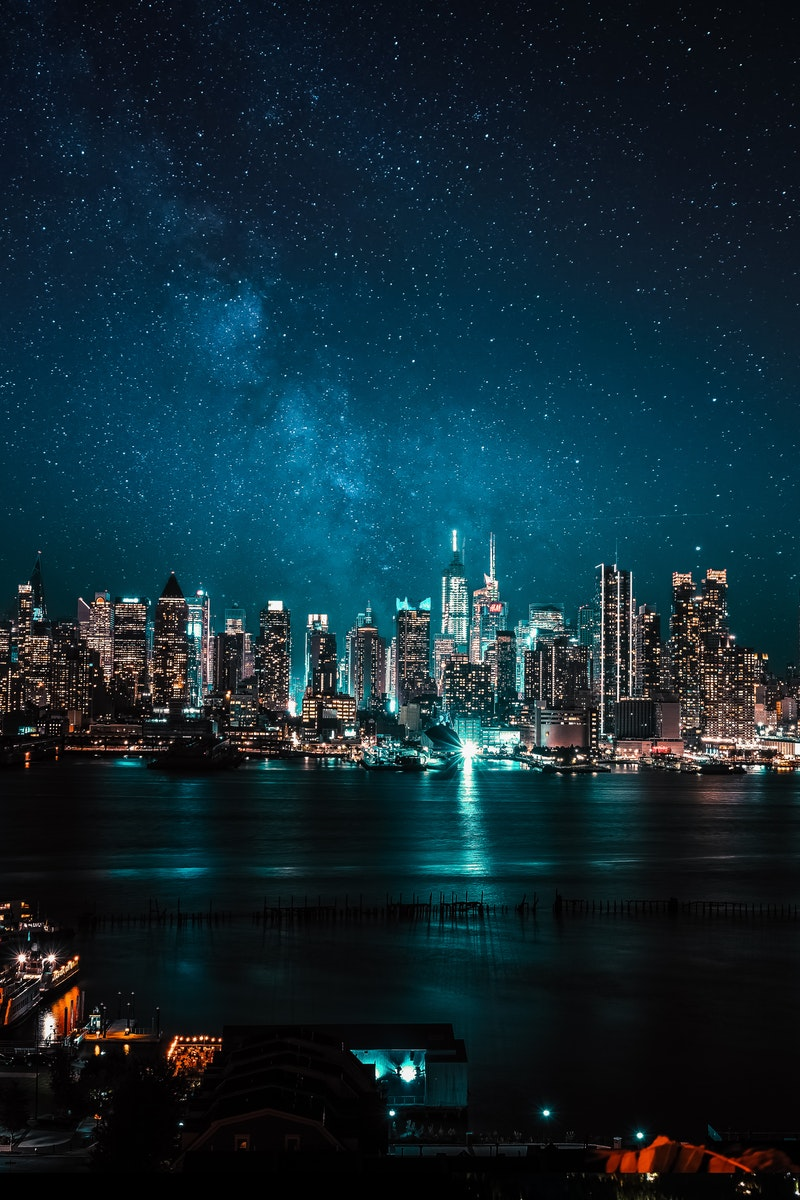
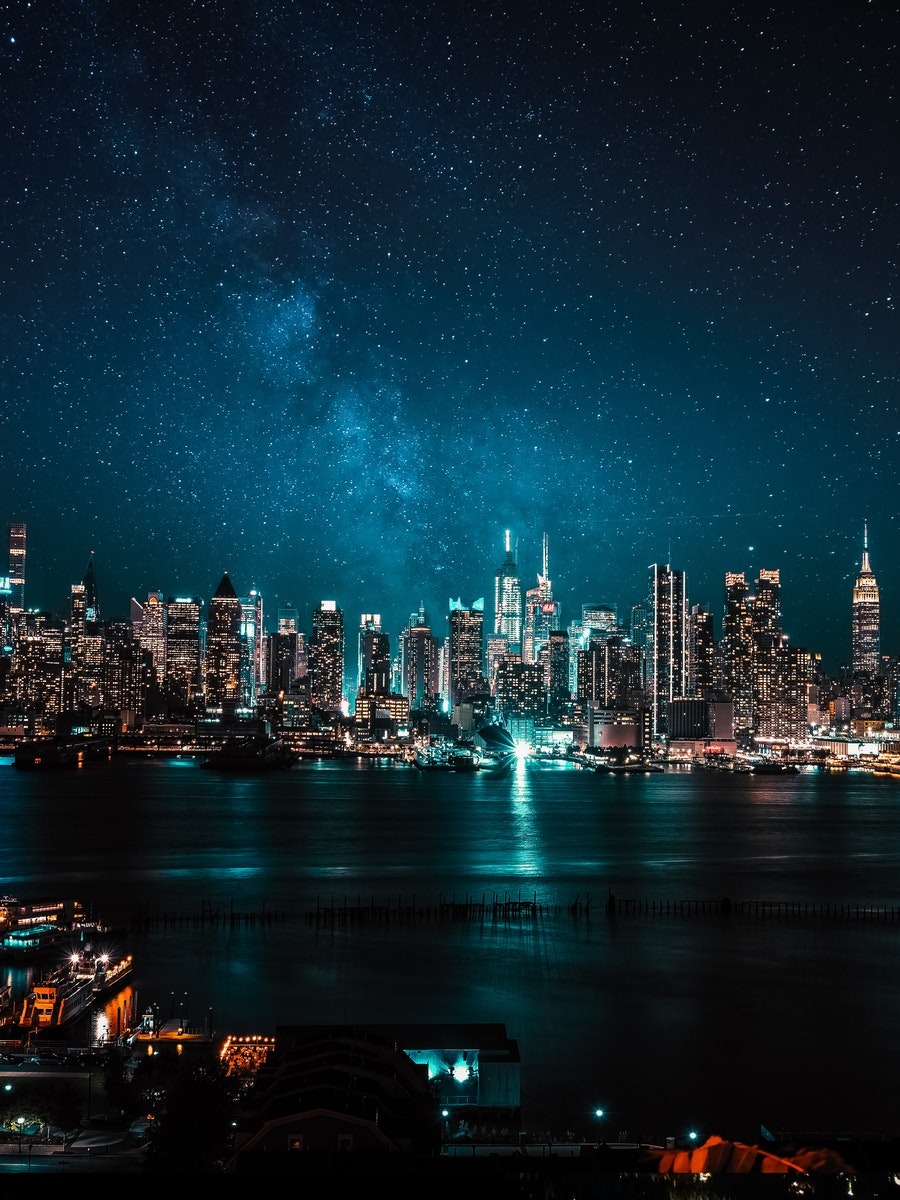
styling and warnings
styling part 4
added a better image
added responsiveness
added warning/guidance messages

diff --git a/styles/stylesheet.css b/styles/stylesheet.css
@@ -71,16 +71,34 @@ h2{
 
 .modalContent{
     font-family: 'Courier New', Courier, monospace;
-    font-size: 1em;
-    text-decoration: underline;
+    font-size: 1.6em;
+}
+
+.input{
+    width: 100%;
+    font-size: 1.4em;
+}
+
+.duedate{
+    margin: 0% 2% 2% 0%;
+    font-size: 1.5em;
 }
 
 .add{
     margin: 4% 2% 2% 0%;
+    font-size: 1.5em;
 }
 
 .cancel{
     margin: 4% 2% 2% 2%;
+    font-size: 1.5em;
+}
+
+.taskMessage{
+    color: white;
+    font-family: Arial, Helvetica, sans-serif;
+    font-weight: 700;
+    font-size: 1.3em;
 }
 
 .listsContainer{
@@ -116,7 +134,7 @@ li{
     margin-bottom: 2%;
     margin-right: 10%;
     margin-left: 0;
-    background-color: white;
+    background-color: #036484;
     padding: 1%;
 }
 
@@ -135,9 +153,12 @@ h4{
 
 .task{
     padding: 1%;
+    color: white;
+    background-color: #036484;
     width: 70%;
     height: 5%;
     border: none;
+    font-size: 1.4em;
 }
 
 .completed{
@@ -147,21 +168,22 @@ h4{
 @media(min-width: 490px){
     body{
         background-image: url(../media/night-city-med.jpg);
-    } 
+    }
+
     h1{
-        font-size: 4em;
+        font-size: 4.2em;
     }
     
     h2{
-       font-size: 2em;    
+       font-size: 2.2em;    
     }
 
     .modalBtn{
         width: 100%;
-        font-size: 1.5em;
+        font-size: 1.7em;
     }
     .modalContent{
-       font-size: 1.2em;
+       font-size: 1.6em;
     }
     
     .input{
@@ -192,6 +214,24 @@ h4{
 @media(min-width: 800px){
     body{
         background-image: url(../media/night-city-lrg.jpg);
+    } 
+    h1{
+        font-size: 4.6em;
+    }
+    
+    h2{
+       font-size: 2.4em;    
+    }
+
+    .modal{
+    padding: 3% 3% 3% 3%;
+    }
+    
+}
+
+@media(min-width: 1000px){
+    body{
+        background-image: url(../media/night-city-XLrg.jpg);
     } 
     
 }

diff --git a/scripts/main.js b/scripts/main.js
@@ -17,6 +17,7 @@ function displayModal(){
 function hideModal(){
     const modal = document.querySelector("#modal")
     modal.style.display = "none"
+    document.getElementById("taskMessage").innerHTML = ""
 }
 
 function loadTasks() {
@@ -44,13 +45,13 @@ function addTask() {
     const list = document.querySelector("#myUl");
     // return if task is empty
     if (task.value === "") {
-      document.getElementById("taskMessage").innerHTML ="Please add a task so we can add it to you list!"
+      document.getElementById("taskMessage").innerHTML ="Please add a task!"
         /* or do this... alert("This is a to do list, so please add some task!"); */
       return false;
     }
     // check is task already exist
     if (document.querySelector(`input[value="${task.value}"]`)) {
-      alert("Task already exist!");
+      document.getElementById("taskMessage").innerHTML = "This task exists!"
       return false;
     }
 
@@ -106,16 +107,23 @@ function editTask(event) {
     let tasks = Array.from(JSON.parse(localStorage.getItem("tasks")));
     // check if task is empty
     if (event.value === "") {
-      alert("Task is empty!");
+      document.getElementById("taskMessage2").innerHTML = "The task is empty"
       event.value = currentTask;
       return;
+    }
+    else
+    {
+      document.getElementById("taskMessage2").innerHTML = ""
     }
     // task already exist
     tasks.forEach(task => {
       if (task.task === event.value) {
-        alert("Task already exist!");
+      document.getElementById("taskMessage2").innerHTML = "The task already exist!";
         event.value = currentTask;
         return;
+      }
+      else{
+      document.getElementById("taskMessage2").innerHTML = "";
       }
     });
     // update task

diff --git a/index.html b/index.html
@@ -18,7 +18,7 @@
         </div>
         <!-- created a button which shows modal once clicked to crete a task -->
         <div class="displayModal">
-            <button class="modalBtn" onclick="displayModal()">create task</button>
+            <button class="modalBtn" onclick="displayModal()">Create Task</button>
         </div>
         <div>
         <!-- modal with form for creating tasks -->
@@ -27,10 +27,10 @@
                 <input type="text" placeholder="Add new task..." class="input">
                 <p id="taskMessage" class="taskMessage"></p>
                 <p class="modalContent">Due Date:</p>
-                <input type="date" id="mydate" class="date"/>
-                <input type="time" id="mytime" class="time"/>
+                <input type="date" id="mydate" class="duedate"/>
+                <input type="time" id="mytime" class="duedate"/>
                 <div>
-                    <button type="submit" class="add">Add Task</button>
+                    <button type="submit" class="add" onclick="addTask()">Add Task</button>
                     <button type="submit" id="done" class="cancel" onclick="hideModal()">Cancel</button>
                 </div>
             </form>
@@ -39,7 +39,9 @@
         <div class="listsContainer">
             <div class="list">
                 <h4>To Do:</h4>
-                <ul id="myUl">    
+                <p id="taskMessage2" class="taskMessage"></p>
+                <ul id="myUl">
+                       
                 
                 </ul>
             </div>
